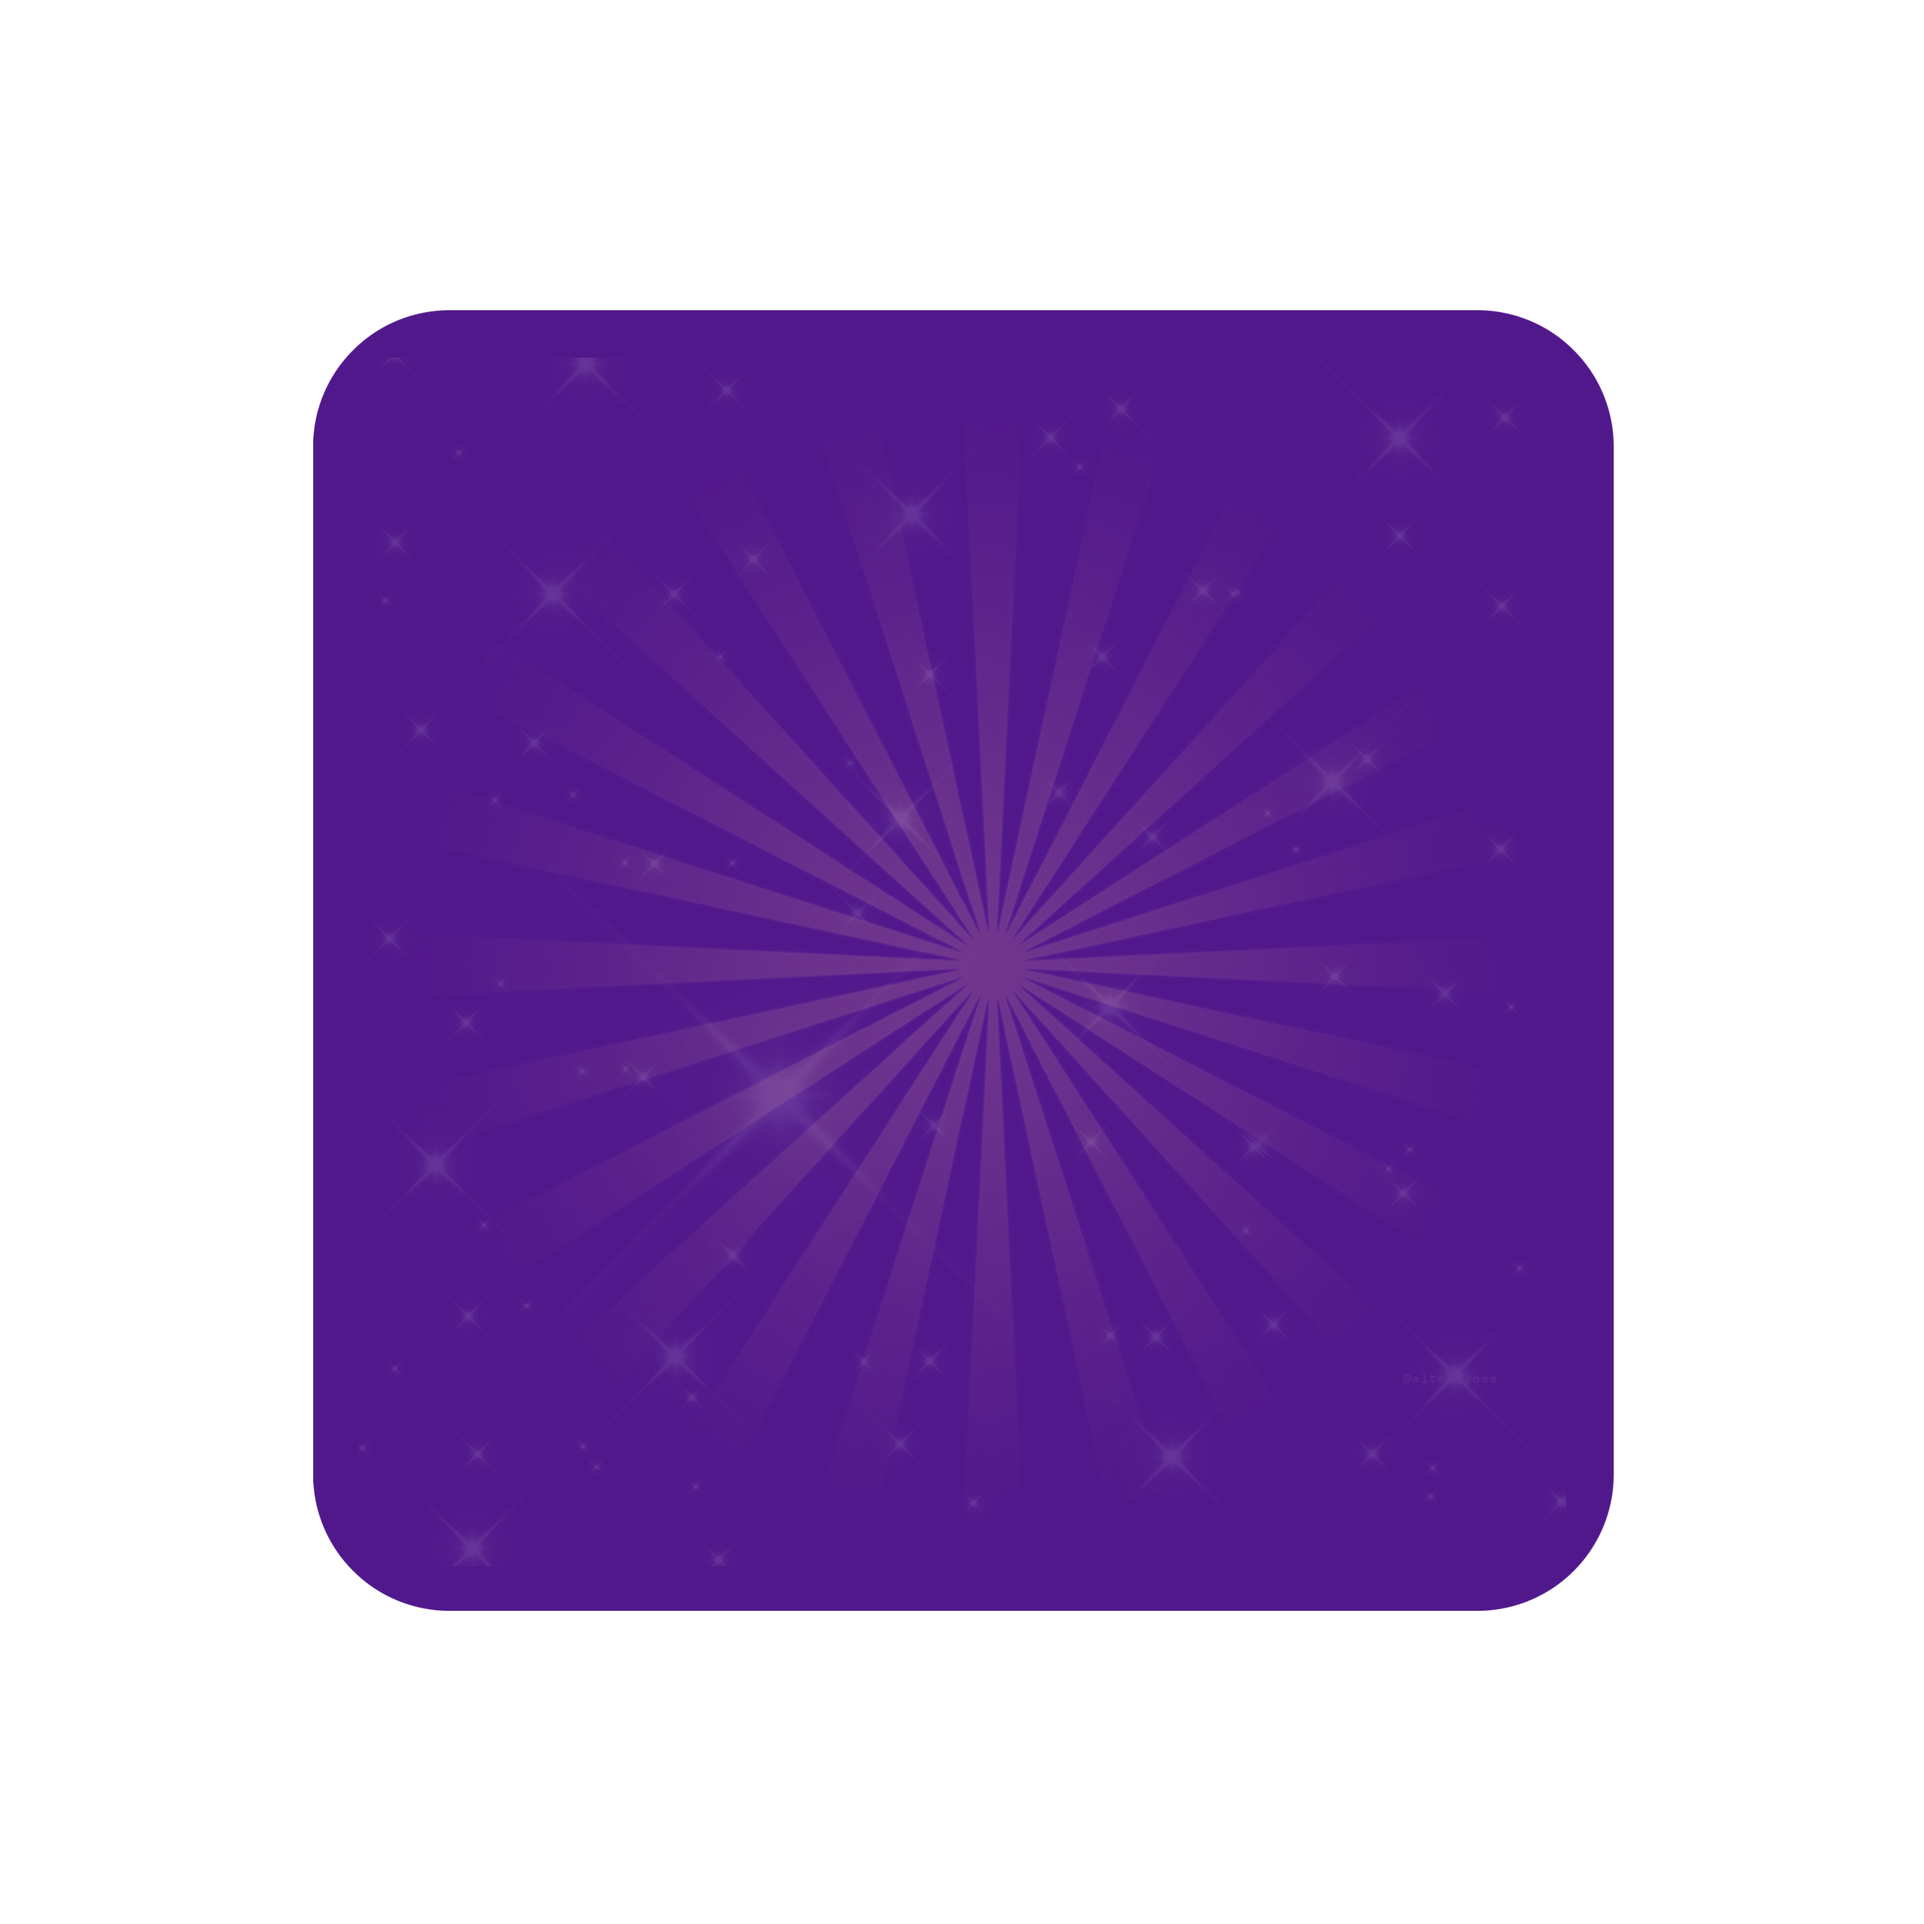
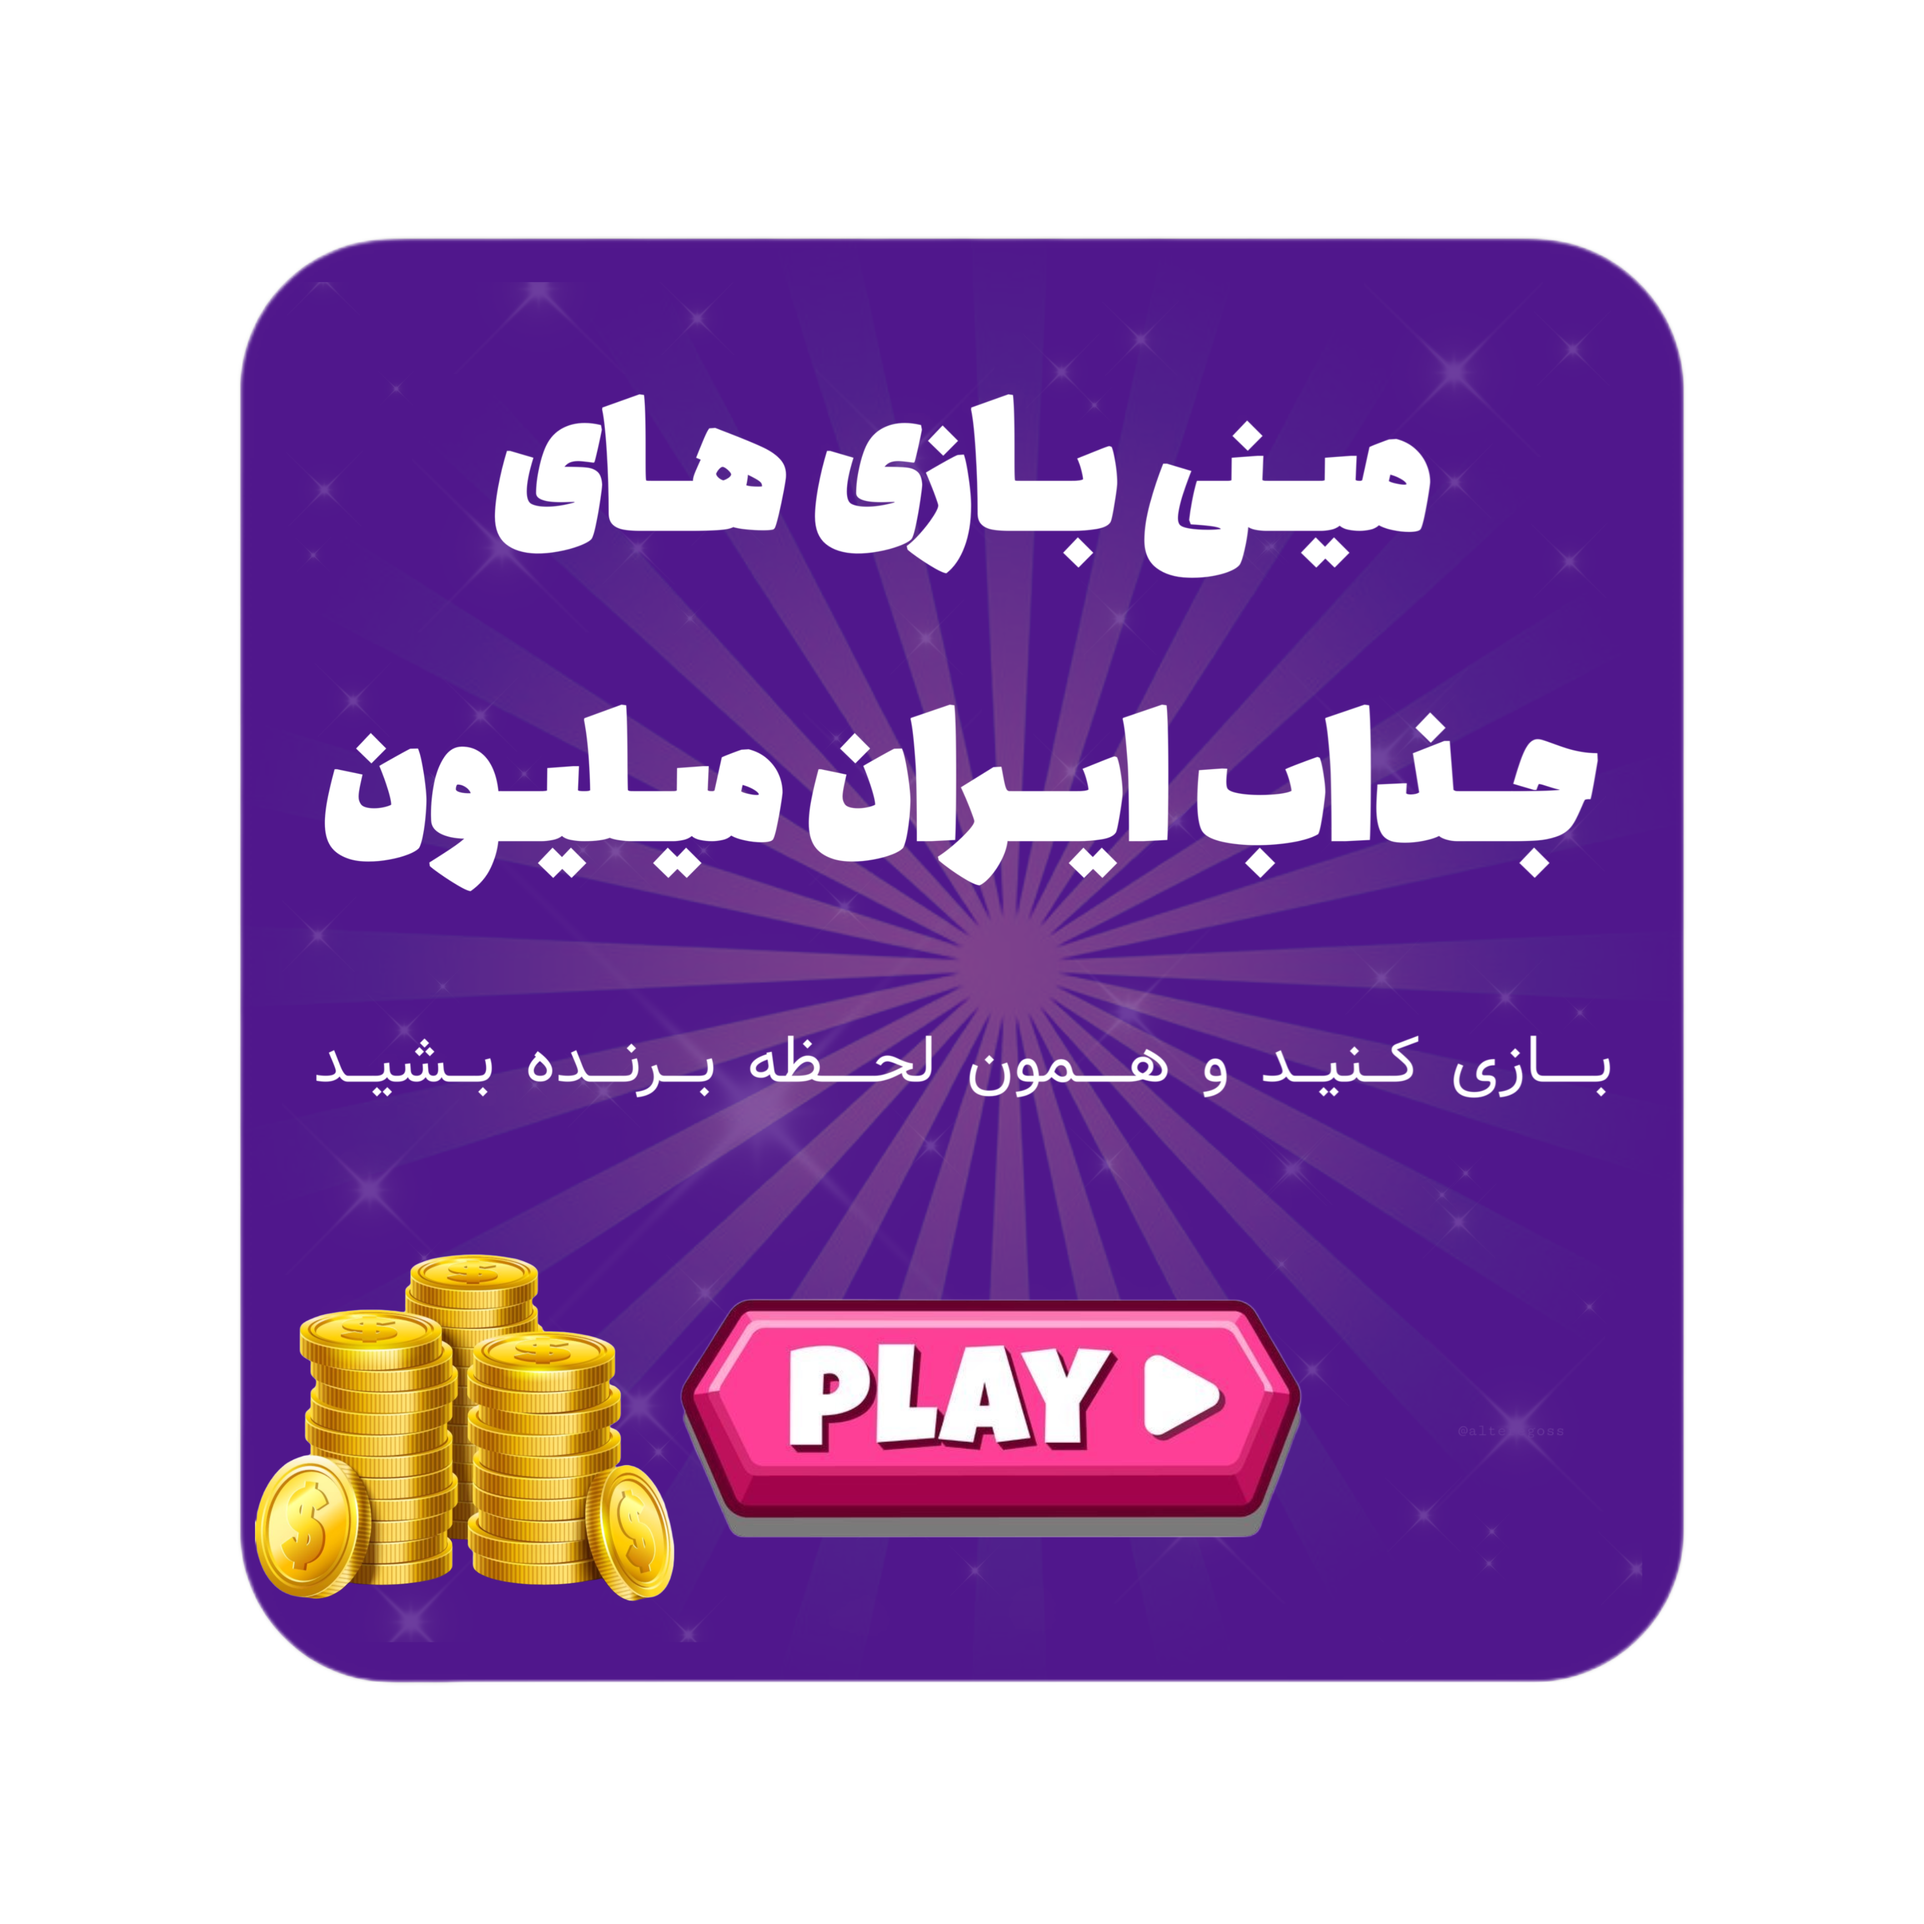
💄 update ui

Changed region(s): [[0.1247, 0.1247, 0.873, 0.873], [0.343, 0.5924, 0.3741, 0.6236]]

diff --git a/app/page.tsx b/app/page.tsx
@@ -1,12 +1,33 @@
+"use client";
+import Image from "next/image";
+
 export default function Home() {
+  const redirect = () => {
+    setTimeout(() => {
+      window.location.assign("https://parsakhosravani.vercel.app/");
+    }, 1500);
+  };
   return (
-    <main className="flex items-center justify-center min-h-screen  bg-no-repeat bg-center bg-mini-game bg-contain">
-      <a
-        href="https://parsakhosravani.vercel.app/"
-        className="w-96 h-24 bg-play-btn bg-no-repeat bg-center bg-cover"
-        target="_blank"
-        rel="noopener noreferrer"
-      ></a>
+    <main className="min-h-screen relative">
+      <Image
+        src="/mini-game.png"
+        alt="Mini Game Background"
+        layout="fill"
+        objectFit="contain"
+      />
+      <button
+        popoverTarget="mini-game-popover"
+        className="absolute w-80 h-56"
+        style={{ bottom: "20%", left: "50%", transform: "translateX(-50%)" }}
+        onClick={redirect}
+      />
+      <div
+        className="bg-[#fd3c96] w-1/4 h-1/4 blur-3xl animate-pulse absolute"
+        popover="auto"
+        id="mini-game-popover"
+      >
+        خوش آمدید
+      </div>
     </main>
   );
 }

diff --git a/tailwind.config.ts b/tailwind.config.ts
@@ -6,15 +6,5 @@ const config: Config = {
     "./components/**/*.{js,ts,jsx,tsx,mdx}",
     "./app/**/*.{js,ts,jsx,tsx,mdx}",
   ],
-  theme: {
-    extend: {
-      backgroundImage: {
-        "mini-game": "url('/mini-game.png')",
-        "play-btn": "url('/play-btn.png')",
-        "coins": "url('/coins.png')",
-      },
-    },
-  },
-  plugins: [],
 };
 export default config;
